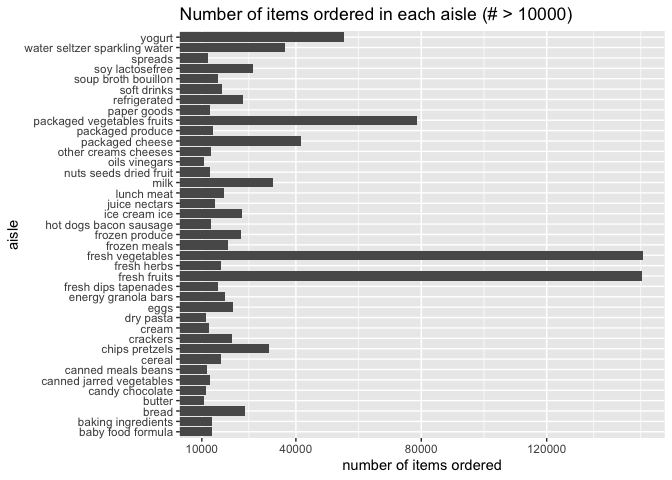
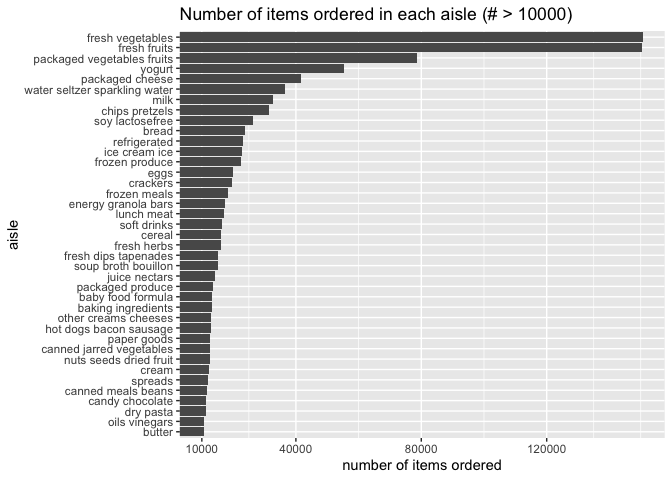
Problem 1 - Reorder the plot so that the graph is sorted with the largest items ordered aisle at the top.

diff --git a/p8105_hw3_sy3352.md b/p8105_hw3_sy3352.md
@@ -40,12 +40,14 @@ There are 134 aisles. The most ordered aisles are `fresh vegetables`,
 `packaged cheese`.
 
 ``` r
-aisle_amount = filter(aisle_amount, n>10000)
-aisle_amount |> ggplot(aes(x = aisle, y = n)) + 
+aisle_amount = filter(aisle_amount, n>10000) 
+aisle_amount |> 
+  ggplot(aes(x = reorder(aisle,n), y = n)) + 
   geom_col() +
   coord_flip(ylim = c(10000, NA)) + 
   scale_y_continuous(breaks = c(10000, 40000, 80000, 120000)) +
   labs(title = "Number of items ordered in each aisle (# > 10000)",
+       x = "aisle",
        y = "number of items ordered")
 ```
 
